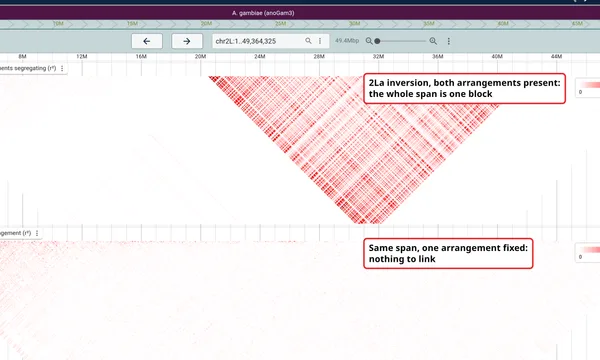
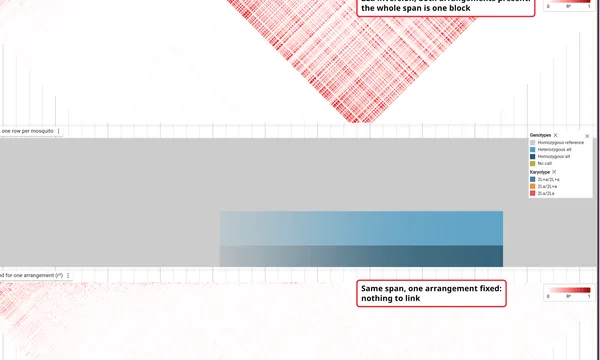
docs(ld_mosquitoes): fold the karyotype figure into the anopheles_2la screenshot
Merges the separate anopheles_2la_karyotype panel into the anopheles_2la
figure and regenerates the tutorial's screenshots and gallery links to match.

Claude-Session: https://claude.ai/code/session_01F45BYCnGRpaTboKELDPTan

diff --git a/website/src/lib/galleryLinks.generated.ts b/website/src/lib/galleryLinks.generated.ts
@@ -137,8 +137,7 @@ export const specSessionUrls: Record<string, string> = {
   "methylation/chromatin_accessibility_6ma": "?config=test_data/config_demo.json&session=spec-%7B%22sessionTracks%22%3A%5B%7B%22type%22%3A%22FeatureTrack%22%2C%22trackId%22%3A%22gencode_promoter_hg38_ucsc%22%2C%22name%22%3A%22GENCODE%20v48%20promoter%20windows%20(UCSC)%22%2C%22assemblyNames%22%3A%5B%22hg38%22%5D%2C%22adapter%22%3A%7B%22type%22%3A%22Gff3TabixAdapter%22%2C%22gffGzLocation%22%3A%7B%22uri%22%3A%22https%3A%2F%2Fjbrowse.org%2Fucsc%2Fhg38%2Fgencode.v48.promoter_windows.sorted.gff3.gz%22%2C%22locationType%22%3A%22UriLocation%22%7D%2C%22index%22%3A%7B%22location%22%3A%7B%22uri%22%3A%22https%3A%2F%2Fjbrowse.org%2Fucsc%2Fhg38%2Fgencode.v48.promoter_windows.sorted.gff3.gz.csi%22%2C%22locationType%22%3A%22UriLocation%22%7D%2C%22indexType%22%3A%22CSI%22%7D%7D%7D%5D%2C%22views%22%3A%5B%7B%22type%22%3A%22LinearGenomeView%22%2C%22assembly%22%3A%22hg38%22%2C%22loc%22%3A%22chr12%3A6%2C528%2C000-6%2C543%2C000%22%2C%22tracks%22%3A%5B%7B%22trackId%22%3A%22ncbi_refseq_109_hg38_latest%22%2C%22type%22%3A%22LinearBasicDisplay%22%2C%22geneGlyphMode%22%3A%22longestCoding%22%7D%2C%22gencode_promoter_hg38_ucsc%22%2C%7B%22trackId%22%3A%22PAY22766-nanopore%22%2C%22type%22%3A%22LinearAlignmentsDisplay%22%2C%22colorBy%22%3A%7B%22type%22%3A%22modifications%22%2C%22modifications%22%3A%7B%22shownModifications%22%3A%5B%22a%22%5D%7D%7D%2C%22heightMode%22%3A%22fixed%22%2C%22featureHeight%22%3A3%2C%22featureSpacing%22%3A0%2C%22showLegend%22%3Atrue%7D%2C%7B%22trackId%22%3A%22PBA15131-nanopore%22%2C%22type%22%3A%22LinearAlignmentsDisplay%22%2C%22colorBy%22%3A%7B%22type%22%3A%22modifications%22%2C%22modifications%22%3A%7B%22shownModifications%22%3A%5B%22a%22%5D%7D%7D%2C%22heightMode%22%3A%22fixed%22%2C%22featureHeight%22%3A3%2C%22featureSpacing%22%3A0%7D%5D%7D%5D%7D&sessionName=Screenshot",
   "methylation/hg002_snrpn_combined": "?config=test_data/config_demo.json&session=spec-%7B%22views%22%3A%5B%7B%22type%22%3A%22LinearGenomeView%22%2C%22assembly%22%3A%22hg38%22%2C%22loc%22%3A%22chr15%3A24%2C948%2C000-24%2C962%2C000%22%2C%22tracks%22%3A%5B%7B%22trackId%22%3A%22cpgisland_ucsc_hg38%22%2C%22type%22%3A%22LinearBasicDisplay%22%2C%22height%22%3A40%7D%2C%7B%22trackId%22%3A%22ncbi_refseq_109_hg38_latest%22%2C%22type%22%3A%22LinearBasicDisplay%22%2C%22geneGlyphMode%22%3A%22longestCoding%22%2C%22displayMode%22%3A%22compact%22%2C%22height%22%3A90%7D%2C%7B%22trackId%22%3A%22HG002_snrpn_modkit_hp1%22%2C%22type%22%3A%22MultiLinearWiggleDisplay%22%2C%22defaultRendering%22%3A%22multirowxy%22%2C%22minScore%22%3A0%2C%22maxScore%22%3A100%2C%22height%22%3A90%7D%2C%7B%22trackId%22%3A%22HG002_snrpn_modkit_hp2%22%2C%22type%22%3A%22MultiLinearWiggleDisplay%22%2C%22defaultRendering%22%3A%22multirowxy%22%2C%22minScore%22%3A0%2C%22maxScore%22%3A100%2C%22height%22%3A90%7D%2C%7B%22trackId%22%3A%22HG002_snrpn_5mC_reads%22%2C%22type%22%3A%22LinearAlignmentsDisplay%22%2C%22height%22%3A460%2C%22forceLoad%22%3Atrue%2C%22groupBy%22%3A%7B%22type%22%3A%22tag%22%2C%22tag%22%3A%22HP%22%7D%2C%22colorBy%22%3A%7B%22type%22%3A%22modifications%22%2C%22modifications%22%3A%7B%22fillUnmarked%22%3Atrue%7D%7D%7D%5D%7D%5D%7D&sessionName=Screenshot",
   "ld/lct_pooled_vs_panel": "?config=https%3A%2F%2Fjbrowse.org%2Fucsc%2Fhg19%2Fconfig.json&session=spec-%7B%22sessionTracks%22%3A%5B%7B%22type%22%3A%22VariantTrack%22%2C%22trackId%22%3A%22kgp_lct_pooled%22%2C%22name%22%3A%22All%20panels%20pooled%20(r%C2%B2)%22%2C%22assemblyNames%22%3A%5B%22hg19%22%5D%2C%22adapter%22%3A%7B%22type%22%3A%22VcfTabixAdapter%22%2C%22uri%22%3A%22https%3A%2F%2Fjbrowse.org%2Fdemos%2Fpopgen%2Flct_1kg_chr2_pooled_wide.vcf.gz%22%2C%22fetchSizeLimit%22%3A500000000%7D%2C%22displays%22%3A%5B%7B%22type%22%3A%22LDDisplay%22%2C%22showLDTriangle%22%3Atrue%2C%22showLegend%22%3Atrue%2C%22showRecombination%22%3Atrue%2C%22minorAlleleFrequencyFilter%22%3A0.35%2C%22height%22%3A330%2C%22useGenomicPositions%22%3Atrue%7D%5D%7D%2C%7B%22type%22%3A%22VariantTrack%22%2C%22trackId%22%3A%22kgp_lct_panel%22%2C%22name%22%3A%22One%20population%20panel%20(r%C2%B2)%22%2C%22assemblyNames%22%3A%5B%22hg19%22%5D%2C%22adapter%22%3A%7B%22type%22%3A%22VcfTabixAdapter%22%2C%22uri%22%3A%22https%3A%2F%2Fjbrowse.org%2Fdemos%2Fpopgen%2Flct_1kg_chr2_eur_wide.vcf.gz%22%2C%22fetchSizeLimit%22%3A500000000%7D%2C%22displays%22%3A%5B%7B%22type%22%3A%22LDDisplay%22%2C%22showLDTriangle%22%3Atrue%2C%22showLegend%22%3Atrue%2C%22showRecombination%22%3Atrue%2C%22minorAlleleFrequencyFilter%22%3A0.35%2C%22height%22%3A330%2C%22useGenomicPositions%22%3Atrue%7D%5D%7D%5D%2C%22views%22%3A%5B%7B%22type%22%3A%22LinearGenomeView%22%2C%22assembly%22%3A%22hg19%22%2C%22loc%22%3A%22chr2%3A134%2C700%2C000-137%2C800%2C000%22%2C%22highlight%22%3A%5B%7B%22refName%22%3A%22chr2%22%2C%22start%22%3A136545410%2C%22end%22%3A136634000%2C%22assemblyName%22%3A%22hg19%22%7D%5D%2C%22tracks%22%3A%5B%7B%22trackId%22%3A%22hg19-ncbiRefSeqCurated%22%2C%22type%22%3A%22LinearBasicDisplay%22%2C%22height%22%3A60%2C%22showOnlyGenes%22%3Atrue%7D%2C%7B%22trackId%22%3A%22kgp_lct_pooled%22%2C%22type%22%3A%22LDDisplay%22%7D%2C%7B%22trackId%22%3A%22kgp_lct_panel%22%2C%22type%22%3A%22LDDisplay%22%7D%5D%7D%5D%7D&sessionName=Screenshot",
-  "ld/anopheles_2la": "?config=https%3A%2F%2Fjbrowse.org%2Fucsc%2FanoGam3%2Fconfig.json&session=spec-%7B%22sessionTracks%22%3A%5B%7B%22type%22%3A%22LDTrack%22%2C%22trackId%22%3A%22ag1000g_2l_cmgam%22%2C%22name%22%3A%22Cameroon%2C%20both%20arrangements%20segregating%20(r%C2%B2)%22%2C%22assemblyNames%22%3A%5B%22anoGam3%22%5D%2C%22adapter%22%3A%7B%22type%22%3A%22PlinkLDTabixAdapter%22%2C%22uri%22%3A%22https%3A%2F%2Fjbrowse.org%2Fdemos%2Fpopgen%2Fag1000g_2L_CMgam.ld.gz%22%7D%2C%22displays%22%3A%5B%7B%22type%22%3A%22LDTrackDisplay%22%2C%22ldMetric%22%3A%22r2%22%2C%22useGenomicPositions%22%3Atrue%2C%22showLegend%22%3Atrue%2C%22height%22%3A300%7D%5D%7D%2C%7B%22type%22%3A%22LDTrack%22%2C%22trackId%22%3A%22ag1000g_2l_gagam%22%2C%22name%22%3A%22Gabon%2C%20fixed%20for%20one%20arrangement%20(r%C2%B2)%22%2C%22assemblyNames%22%3A%5B%22anoGam3%22%5D%2C%22adapter%22%3A%7B%22type%22%3A%22PlinkLDTabixAdapter%22%2C%22uri%22%3A%22https%3A%2F%2Fjbrowse.org%2Fdemos%2Fpopgen%2Fag1000g_2L_GAgam.ld.gz%22%7D%2C%22displays%22%3A%5B%7B%22type%22%3A%22LDTrackDisplay%22%2C%22ldMetric%22%3A%22r2%22%2C%22useGenomicPositions%22%3Atrue%2C%22showLegend%22%3Atrue%2C%22height%22%3A300%7D%5D%7D%5D%2C%22views%22%3A%5B%7B%22type%22%3A%22LinearGenomeView%22%2C%22assembly%22%3A%22anoGam3%22%2C%22loc%22%3A%22chr2L%22%2C%22tracks%22%3A%5B%7B%22trackId%22%3A%22ag1000g_2l_cmgam%22%2C%22type%22%3A%22LDTrackDisplay%22%7D%2C%7B%22trackId%22%3A%22ag1000g_2l_gagam%22%2C%22type%22%3A%22LDTrackDisplay%22%7D%5D%7D%5D%7D&sessionName=Screenshot",
-  "ld/anopheles_2la_karyotype": "?config=https%3A%2F%2Fjbrowse.org%2Fucsc%2FanoGam3%2Fconfig.json&session=spec-%7B%22sessionTracks%22%3A%5B%7B%22type%22%3A%22VariantTrack%22%2C%22trackId%22%3A%22ag1000g_2la_karyotype_cmgam%22%2C%22name%22%3A%22Cameroon%2C%20one%20row%20per%20mosquito%22%2C%22assemblyNames%22%3A%5B%22anoGam3%22%5D%2C%22adapter%22%3A%7B%22type%22%3A%22VcfTabixAdapter%22%2C%22uri%22%3A%22https%3A%2F%2Fjbrowse.org%2Fdemos%2Fpopgen%2Fag1000g_2La_CMgam.vcf.gz%22%2C%22samplesTsvLocation%22%3A%7B%22uri%22%3A%22https%3A%2F%2Fjbrowse.org%2Fdemos%2Fpopgen%2Fag1000g_2La_CMgam_samples.tsv%22%7D%7D%2C%22displays%22%3A%5B%7B%22type%22%3A%22LinearMultiSampleVariantDisplay%22%2C%22groupBy%22%3A%22karyotype%22%2C%22colorBy%22%3A%22karyotype%22%2C%22referenceDrawingMode%22%3A%22draw%22%2C%22rowHeight%22%3A3%2C%22height%22%3A891%7D%5D%7D%2C%7B%22type%22%3A%22VariantTrack%22%2C%22trackId%22%3A%22ag1000g_2la_karyotype_gagam%22%2C%22name%22%3A%22Gabon%2C%20one%20row%20per%20mosquito%22%2C%22assemblyNames%22%3A%5B%22anoGam3%22%5D%2C%22adapter%22%3A%7B%22type%22%3A%22VcfTabixAdapter%22%2C%22uri%22%3A%22https%3A%2F%2Fjbrowse.org%2Fdemos%2Fpopgen%2Fag1000g_2La_GAgam.vcf.gz%22%2C%22samplesTsvLocation%22%3A%7B%22uri%22%3A%22https%3A%2F%2Fjbrowse.org%2Fdemos%2Fpopgen%2Fag1000g_2La_GAgam_samples.tsv%22%7D%7D%2C%22displays%22%3A%5B%7B%22type%22%3A%22LinearMultiSampleVariantDisplay%22%2C%22groupBy%22%3A%22karyotype%22%2C%22colorBy%22%3A%22karyotype%22%2C%22referenceDrawingMode%22%3A%22draw%22%2C%22rowHeight%22%3A3%2C%22height%22%3A207%7D%5D%7D%5D%2C%22views%22%3A%5B%7B%22type%22%3A%22LinearGenomeView%22%2C%22assembly%22%3A%22anoGam3%22%2C%22loc%22%3A%22chr2L%22%2C%22tracks%22%3A%5B%7B%22trackId%22%3A%22ag1000g_2la_karyotype_cmgam%22%2C%22type%22%3A%22LinearMultiSampleVariantDisplay%22%7D%2C%7B%22trackId%22%3A%22ag1000g_2la_karyotype_gagam%22%2C%22type%22%3A%22LinearMultiSampleVariantDisplay%22%7D%5D%7D%5D%7D&sessionName=Screenshot",
+  "ld/anopheles_2la": "?config=https%3A%2F%2Fjbrowse.org%2Fucsc%2FanoGam3%2Fconfig.json&session=spec-%7B%22sessionTracks%22%3A%5B%7B%22type%22%3A%22LDTrack%22%2C%22trackId%22%3A%22ag1000g_2l_cmgam%22%2C%22name%22%3A%22Cameroon%2C%20both%20arrangements%20segregating%20(r%C2%B2)%22%2C%22assemblyNames%22%3A%5B%22anoGam3%22%5D%2C%22adapter%22%3A%7B%22type%22%3A%22PlinkLDTabixAdapter%22%2C%22uri%22%3A%22https%3A%2F%2Fjbrowse.org%2Fdemos%2Fpopgen%2Fag1000g_2L_CMgam.ld.gz%22%7D%2C%22displays%22%3A%5B%7B%22type%22%3A%22LDTrackDisplay%22%2C%22ldMetric%22%3A%22r2%22%2C%22useGenomicPositions%22%3Atrue%2C%22showLegend%22%3Atrue%2C%22height%22%3A300%7D%5D%7D%2C%7B%22type%22%3A%22VariantTrack%22%2C%22trackId%22%3A%22ag1000g_2la_karyotype_cmgam%22%2C%22name%22%3A%22Cameroon%2C%20one%20row%20per%20mosquito%22%2C%22assemblyNames%22%3A%5B%22anoGam3%22%5D%2C%22adapter%22%3A%7B%22type%22%3A%22VcfTabixAdapter%22%2C%22uri%22%3A%22https%3A%2F%2Fjbrowse.org%2Fdemos%2Fpopgen%2Fag1000g_2La_CMgam.vcf.gz%22%2C%22samplesTsvLocation%22%3A%7B%22uri%22%3A%22https%3A%2F%2Fjbrowse.org%2Fdemos%2Fpopgen%2Fag1000g_2La_CMgam_samples.tsv%22%7D%7D%2C%22displays%22%3A%5B%7B%22type%22%3A%22LinearMultiSampleVariantDisplay%22%2C%22groupBy%22%3A%22karyotype%22%2C%22colorBy%22%3A%22karyotype%22%2C%22referenceDrawingMode%22%3A%22skip%22%2C%22height%22%3A297%7D%5D%7D%2C%7B%22type%22%3A%22LDTrack%22%2C%22trackId%22%3A%22ag1000g_2l_gagam%22%2C%22name%22%3A%22Gabon%2C%20fixed%20for%20one%20arrangement%20(r%C2%B2)%22%2C%22assemblyNames%22%3A%5B%22anoGam3%22%5D%2C%22adapter%22%3A%7B%22type%22%3A%22PlinkLDTabixAdapter%22%2C%22uri%22%3A%22https%3A%2F%2Fjbrowse.org%2Fdemos%2Fpopgen%2Fag1000g_2L_GAgam.ld.gz%22%7D%2C%22displays%22%3A%5B%7B%22type%22%3A%22LDTrackDisplay%22%2C%22ldMetric%22%3A%22r2%22%2C%22useGenomicPositions%22%3Atrue%2C%22showLegend%22%3Atrue%2C%22height%22%3A300%7D%5D%7D%2C%7B%22type%22%3A%22VariantTrack%22%2C%22trackId%22%3A%22ag1000g_2la_karyotype_gagam%22%2C%22name%22%3A%22Gabon%2C%20one%20row%20per%20mosquito%22%2C%22assemblyNames%22%3A%5B%22anoGam3%22%5D%2C%22adapter%22%3A%7B%22type%22%3A%22VcfTabixAdapter%22%2C%22uri%22%3A%22https%3A%2F%2Fjbrowse.org%2Fdemos%2Fpopgen%2Fag1000g_2La_GAgam.vcf.gz%22%2C%22samplesTsvLocation%22%3A%7B%22uri%22%3A%22https%3A%2F%2Fjbrowse.org%2Fdemos%2Fpopgen%2Fag1000g_2La_GAgam_samples.tsv%22%7D%7D%2C%22displays%22%3A%5B%7B%22type%22%3A%22LinearMultiSampleVariantDisplay%22%2C%22groupBy%22%3A%22karyotype%22%2C%22colorBy%22%3A%22karyotype%22%2C%22referenceDrawingMode%22%3A%22skip%22%2C%22height%22%3A150%7D%5D%7D%5D%2C%22views%22%3A%5B%7B%22type%22%3A%22LinearGenomeView%22%2C%22assembly%22%3A%22anoGam3%22%2C%22loc%22%3A%22chr2L%22%2C%22tracks%22%3A%5B%7B%22trackId%22%3A%22ag1000g_2l_cmgam%22%2C%22type%22%3A%22LDTrackDisplay%22%7D%2C%7B%22trackId%22%3A%22ag1000g_2la_karyotype_cmgam%22%2C%22type%22%3A%22LinearMultiSampleVariantDisplay%22%7D%2C%7B%22trackId%22%3A%22ag1000g_2l_gagam%22%2C%22type%22%3A%22LDTrackDisplay%22%7D%2C%7B%22trackId%22%3A%22ag1000g_2la_karyotype_gagam%22%2C%22type%22%3A%22LinearMultiSampleVariantDisplay%22%7D%5D%7D%5D%7D&sessionName=Screenshot",
   "ld/lct_lactase": "?config=https%3A%2F%2Fjbrowse.org%2Fucsc%2Fhg19%2Fconfig.json&session=spec-%7B%22sessionTracks%22%3A%5B%7B%22type%22%3A%22VariantTrack%22%2C%22trackId%22%3A%22kgp_lct_ld%22%2C%22name%22%3A%22LCT%20lactase-persistence%20LD%2C%201000G%20European%20panel%20(r%C2%B2)%22%2C%22assemblyNames%22%3A%5B%22hg19%22%5D%2C%22adapter%22%3A%7B%22type%22%3A%22VcfTabixAdapter%22%2C%22uri%22%3A%22https%3A%2F%2Fjbrowse.org%2Fdemos%2Fpopgen%2Flct_1kg_chr2_eur_wide.vcf.gz%22%2C%22fetchSizeLimit%22%3A500000000%7D%2C%22displays%22%3A%5B%7B%22type%22%3A%22LDDisplay%22%2C%22showLDTriangle%22%3Atrue%2C%22showLegend%22%3Atrue%2C%22showRecombination%22%3Atrue%2C%22minorAlleleFrequencyFilter%22%3A0.35%2C%22useGenomicPositions%22%3Atrue%2C%22height%22%3A510%7D%5D%7D%5D%2C%22views%22%3A%5B%7B%22type%22%3A%22LinearGenomeView%22%2C%22assembly%22%3A%22hg19%22%2C%22loc%22%3A%22chr2%3A134%2C700%2C000-137%2C800%2C000%22%2C%22highlight%22%3A%5B%7B%22refName%22%3A%22chr2%22%2C%22start%22%3A136545410%2C%22end%22%3A136634000%2C%22assemblyName%22%3A%22hg19%22%7D%5D%2C%22tracks%22%3A%5B%7B%22trackId%22%3A%22hg19-ncbiRefSeqCurated%22%2C%22type%22%3A%22LinearBasicDisplay%22%2C%22height%22%3A60%2C%22showOnlyGenes%22%3Atrue%7D%2C%7B%22trackId%22%3A%22hg19-clinvarMain%22%2C%22type%22%3A%22LinearBasicDisplay%22%2C%22height%22%3A70%2C%22jexlFiltersSetting%22%3A%5B%22jexl%3Aget(feature%2C'phenotypeList')%3D%3D'LACTASE%20PERSISTENCE'%22%5D%7D%2C%7B%22trackId%22%3A%22kgp_lct_ld%22%2C%22type%22%3A%22LDDisplay%22%7D%5D%7D%5D%7D&sessionName=Screenshot",
   "popgen/fst_in2lt_2L": "?config=https%3A%2F%2Fjbrowse.org%2Fucsc%2Fdm6%2Fconfig.json&session=spec-%7B%22sessionTracks%22%3A%5B%7B%22type%22%3A%22FeatureTrack%22%2C%22trackId%22%3A%22in2lt_inversion%22%2C%22name%22%3A%22In(2L)t%20inversion%22%2C%22assemblyNames%22%3A%5B%22dm6%22%5D%2C%22adapter%22%3A%7B%22type%22%3A%22FromConfigAdapter%22%2C%22adapterId%22%3A%22in2lt%22%2C%22features%22%3A%5B%7B%22uniqueId%22%3A%22in2lt%22%2C%22refName%22%3A%22chr2L%22%2C%22start%22%3A2225744%2C%22end%22%3A13154180%2C%22name%22%3A%22In(2L)t%22%2C%22type%22%3A%22inversion%22%7D%5D%7D%7D%2C%7B%22type%22%3A%22QuantitativeTrack%22%2C%22trackId%22%3A%22fst_in2lt%22%2C%22name%22%3A%22Fst%20(In(2L)t%20vs%20standard)%22%2C%22assemblyNames%22%3A%5B%22dm6%22%5D%2C%22adapter%22%3A%7B%22type%22%3A%22BigWigAdapter%22%2C%22uri%22%3A%22https%3A%2F%2Fjbrowse.org%2Fdemos%2Fpopgen%2Ffst_In2Lt.bw%22%7D%7D%5D%2C%22views%22%3A%5B%7B%22type%22%3A%22LinearGenomeView%22%2C%22assembly%22%3A%22dm6%22%2C%22displayedRegionNames%22%3A%5B%22chr2L%22%2C%22chr2R%22%2C%22chr3L%22%2C%22chr3R%22%2C%22chr4%22%2C%22chrX%22%5D%2C%22tracks%22%3A%5B%7B%22trackId%22%3A%22in2lt_inversion%22%2C%22type%22%3A%22LinearBasicDisplay%22%2C%22height%22%3A40%7D%2C%7B%22trackId%22%3A%22fst_in2lt%22%2C%22type%22%3A%22LinearWiggleDisplay%22%2C%22height%22%3A340%7D%5D%7D%5D%7D&sessionName=Screenshot",
   "popgen/tajimad_cyp6g1": "?config=https%3A%2F%2Fjbrowse.org%2Fucsc%2Fdm6%2Fconfig.json&session=spec-%7B%22sessionTracks%22%3A%5B%7B%22type%22%3A%22QuantitativeTrack%22%2C%22trackId%22%3A%22tajd_all%22%2C%22name%22%3A%22Tajima's%20D%20(whole%20panel)%22%2C%22assemblyNames%22%3A%5B%22dm6%22%5D%2C%22adapter%22%3A%7B%22type%22%3A%22BigWigAdapter%22%2C%22uri%22%3A%22https%3A%2F%2Fjbrowse.org%2Fdemos%2Fpopgen%2Ftajimad_all.bw%22%7D%7D%2C%7B%22type%22%3A%22QuantitativeTrack%22%2C%22trackId%22%3A%22pi_all%22%2C%22name%22%3A%22%CF%80%20(whole%20panel)%22%2C%22assemblyNames%22%3A%5B%22dm6%22%5D%2C%22adapter%22%3A%7B%22type%22%3A%22BigWigAdapter%22%2C%22uri%22%3A%22https%3A%2F%2Fjbrowse.org%2Fdemos%2Fpopgen%2Fpi_all.bw%22%7D%7D%5D%2C%22views%22%3A%5B%7B%22type%22%3A%22LinearGenomeView%22%2C%22assembly%22%3A%22dm6%22%2C%22loc%22%3A%22chr2R%3A12%2C000%2C000-12%2C400%2C000%22%2C%22highlight%22%3A%5B%7B%22refName%22%3A%22chr2R%22%2C%22start%22%3A12130000%2C%22end%22%3A12200000%2C%22assemblyName%22%3A%22dm6%22%2C%22label%22%3A%22Cyp6g1%22%7D%5D%2C%22tracks%22%3A%5B%7B%22trackId%22%3A%22tajd_all%22%2C%22type%22%3A%22LinearWiggleDisplay%22%2C%22height%22%3A200%7D%2C%7B%22trackId%22%3A%22pi_all%22%2C%22type%22%3A%22LinearWiggleDisplay%22%2C%22height%22%3A180%7D%2C%7B%22trackId%22%3A%22dm6-ncbiRefSeqCurated%22%2C%22type%22%3A%22LinearBasicDisplay%22%2C%22height%22%3A150%2C%22showOnlyGenes%22%3Atrue%2C%22featureHighlights%22%3A%5B%7B%22refName%22%3A%22chr2R%22%2C%22name%22%3A%22Cyp6g1%22%7D%2C%7B%22refName%22%3A%22chr2R%22%2C%22name%22%3A%22Cyp6g2%22%7D%5D%7D%5D%7D%5D%7D&sessionName=Screenshot",

diff --git a/website/scripts/specs/ld.ts b/website/scripts/specs/ld.ts
@@ -205,9 +205,9 @@ const AG_POPGEN = 'https://jbrowse.org/demos/popgen'
 
 // One track per population, not one track holding both. The display draws one
 // row per sample in the VCF and has no sample filter, so the file is the row set
-// — and at a 3px row the sidebar cannot render a text label, which leaves the
-// track header as the only place a population name can go. It also puts this
-// figure in the same two-lane structure as the heatmaps above.
+// — and at a 1px row the sidebar cannot render a text label, which leaves the
+// track header as the only place a population name can go. It also lets each
+// karyotype lane sit directly under its own LD panel in the combined figure.
 const agKaryotypeTrack = (pop: string, name: string, height: number) => ({
   type: 'VariantTrack',
   trackId: `ag1000g_2la_karyotype_${pop.toLowerCase()}`,
@@ -230,25 +230,28 @@ const agKaryotypeTrack = (pop: string, name: string, height: number) => ({
       // contiguous blocks in dosage order.
       groupBy: 'karyotype',
       colorBy: 'karyotype',
-      // 'draw', not the default 'skip'. Skip mode fills the entire track
-      // background with REFERENCE_COLOR and paints only ALT cells, so a
-      // standard-arrangement mosquito is indistinguishable from empty canvas —
-      // which is exactly the distinction this figure exists to make for the
-      // near-fixed population, whose track would otherwise read as failed to
-      // load. Drawing reference puts a grey cell at the call's span on those
-      // rows, so every mosquito shows a block over the inversion and its shade is
-      // its karyotype.
-      referenceDrawingMode: 'draw',
+      // 'skip', the default: the display fills the whole lane with
+      // REFERENCE_COLOR in CSS and paints only ALT cells on top, so the lane is
+      // a solid grey field with the carriers' blocks on it (review: "it should
+      // use 'drawreferencealleles' as solid grey background"). 'draw' instead
+      // paints a grey cell per row at the call's span, and at these row heights
+      // the per-row gaps broke that field into a striped rectangle that read as
+      // a texture rather than as background.
+      referenceDrawingMode: 'skip',
       // No featureColor. The default alt shade is keyed to allele dosage
       // (`getAltColorForDosage`), so a heterozygote paints lighter than a
       // homozygote and the three classes read apart; an override flattens het and
       // hom-alt to one flat color, which is what the first cut of this figure did
       // and it threw the distinction away.
       //
-      // 3px rows, not 1px: a 1px row is shorter than the inversion glyph's taper,
-      // so the left end of every block antialiases into a gradient instead of
-      // reading as a shape.
-      rowHeight: 3,
+      // No rowHeight here. It is a display *model* prop, not a config slot, so a
+      // track config carries it nowhere — the previous 891/207 lanes read as
+      // "297 x 3px" only because `height / nrow` happens to land on the same
+      // number. The lane height IS the row height: rows auto-fit
+      // `availableHeight / nrow`, so this is the one knob, and at 297px the
+      // Cameroon panel's 297 mosquitoes get a pixel each. The class boundaries
+      // survive that because rows are grouped — a 1px row is not readable on its
+      // own, but a contiguous run of one karyotype is a band tens of px deep.
       height,
     },
   ],
@@ -357,10 +360,9 @@ export const ldSpecs: ScreenshotSpec[] = [
         },
       ],
     })}&sessionName=Screenshot`,
-    // same real signal as the Anopheles figure: both LD panels finished, not a
-    // duration guess
-    readySelector:
-      'body:has([data-testid="ld-display-done"][data-display-phase="ready"]):not(:has([data-testid="ld-display"])):not(:has([data-display-phase="loading"]))',
+    // same real signal as the Anopheles figure: an LD panel exists to settle on,
+    // and the generator's settle takes it from there
+    readySelector: '[data-testid="ld-display-done"]',
     // 21 MB of genotypes across the two lanes, the pooled one on 2504 samples
     readyTimeout: 600000,
     // the gene lane, then two LD tracks (330 triangle + 50 recombination zone
@@ -370,6 +372,13 @@ export const ldSpecs: ScreenshotSpec[] = [
   },
   {
     mode: 'url',
+    // ONE FIGURE, four lanes: each population's LD panel with its own karyotype
+    // lane under it (review: "this should be combined with the linkage tracks").
+    // The karyotype lanes were a second figure until this round, which made the
+    // reader carry the population names between two pictures to pair a block
+    // with the mosquitoes that produce it. Stacked, the pairing is vertical: the
+    // Cameroon block sits directly above the carriers it comes from, and the
+    // empty Gabon panel above a lane with nothing to carry.
     name: 'ld/anopheles_2la',
     url: `${ANOGAM3_HUB}&session=${encodeSessionSpec({
       sessionTracks: [
@@ -378,11 +387,20 @@ export const ldSpecs: ScreenshotSpec[] = [
           'Cameroon, both arrangements segregating (r²)',
           'ag1000g_2L_CMgam.ld.gz',
         ),
+        // 297 and 69 mosquitoes (the script prints both). The Cameroon lane
+        // takes its row count as its height, so a row is a pixel. The Gabon lane
+        // cannot: its floating legend is clipped to the display's own bounds and
+        // 69px cut that legend in half, so it takes the legend's height and its
+        // 69 rows auto-fit to ~2px each. The cost is that lane height is no
+        // longer proportional to panel size across the two, which is why the
+        // caption names both counts.
+        agKaryotypeTrack('CMgam', 'Cameroon, one row per mosquito', 297),
         agLdTrack(
           'ag1000g_2l_gagam',
           'Gabon, fixed for one arrangement (r²)',
           'ag1000g_2L_GAgam.ld.gz',
         ),
+        agKaryotypeTrack('GAgam', 'Gabon, one row per mosquito', 150),
       ],
       views: [
         {
@@ -397,24 +415,34 @@ export const ldSpecs: ScreenshotSpec[] = [
           // features are admitted, not whether they can be resolved.
           tracks: [
             { trackId: 'ag1000g_2l_cmgam', type: 'LDTrackDisplay' },
+            {
+              trackId: 'ag1000g_2la_karyotype_cmgam',
+              type: 'LinearMultiSampleVariantDisplay',
+            },
             { trackId: 'ag1000g_2l_gagam', type: 'LDTrackDisplay' },
+            {
+              trackId: 'ag1000g_2la_karyotype_gagam',
+              type: 'LinearMultiSampleVariantDisplay',
+            },
           ],
         },
       ],
     })}&sessionName=Screenshot`,
-    // Wait on the model's own state, not a duration. DisplayChrome publishes
-    // `data-display-phase` for exactly this; note the sibling `-done` testid is
-    // canvasDrawn (FIRST PAINT), which flips on an empty canvas while the fetch
-    // is still in flight, so it would happily screenshot a blank triangle.
-    // Both LD panels must reach `ready`.
-    // An LD panel is `ld-display` until first paint and `ld-display-done`
-    // after, so "no bare ld-display left" means both panels painted, and "no
-    // phase=loading left" means both finished fetching.
-    readySelector:
-      'body:has([data-testid="ld-display-done"][data-display-phase="ready"]):not(:has([data-testid="ld-display"])):not(:has([data-display-phase="loading"]))',
+    // One testid, not a selector enumerating the four lanes: the generator's
+    // own settle already waits for every DisplayChrome-wrapped display to leave
+    // `loading` and then to paint (see settlePass in generate-screenshots.ts),
+    // which is what "all four are done" means. This only has to hold until the
+    // first LD panel exists to settle on.
+    readySelector: '[data-testid="ld-display-done"]',
+    // 180s. The data is small; what takes the time is the anoGam3 hub's
+    // chrom.sizes off hgdownload.soe.ucsc.edu, which times out and refetches
+    // often enough to blow through 120s on a bad day.
     readyTimeout: 180000,
-    // two LD tracks(300 each) + 2 headers + ruler/overview
-    viewportHeight: 770,
+    // two LD tracks (300 each) + 297 + 69 of karyotype rows + 4 headers +
+    // ruler/overview. Undersize this and the rows past the fold are cropped away
+    // silently: first paint still fires, so the capture succeeds with the
+    // informative rows missing.
+    viewportHeight: 1382,
     settleMs: 8000,
     // One callout per lane, saying what each lane shows rather than only naming
     // the span (review: "a red text annotation on both cameroon and gabon
@@ -450,51 +478,6 @@ export const ldSpecs: ScreenshotSpec[] = [
         maxWidth: 430,
       },
     ],
-  },
-  {
-    mode: 'url',
-    name: 'ld/anopheles_2la_karyotype',
-    url: `${ANOGAM3_HUB}&session=${encodeSessionSpec({
-      sessionTracks: [
-        // Heights are the row counts times rowHeight, so each lane is exactly as
-        // tall as its panel is large and neither scrolls. 297 and 69 mosquitoes
-        // (the script prints both), so the Cameroon lane is the tall one.
-        agKaryotypeTrack('CMgam', 'Cameroon, one row per mosquito', 891),
-        agKaryotypeTrack('GAgam', 'Gabon, one row per mosquito', 207),
-      ],
-      views: [
-        {
-          type: 'LinearGenomeView',
-          assembly: 'anoGam3',
-          // the whole arm, same frame as the LD figure above, so the call is
-          // bounded by standard-arrangement sequence on both sides rather than
-          // cropped to its own extent
-          loc: 'chr2L',
-          tracks: [
-            {
-              trackId: 'ag1000g_2la_karyotype_cmgam',
-              type: 'LinearMultiSampleVariantDisplay',
-            },
-            {
-              trackId: 'ag1000g_2la_karyotype_gagam',
-              type: 'LinearMultiSampleVariantDisplay',
-            },
-          ],
-        },
-      ],
-    })}&sessionName=Screenshot`,
-    readySelector: '[data-testid="variant-display-done"]',
-    // 180s to match the sibling LD figure. The data here is three tiny files;
-    // what actually takes the time is the anoGam3 hub's chrom.sizes off
-    // hgdownload.soe.ucsc.edu, which times out and refetches often enough to blow
-    // through 120s on a bad day.
-    readyTimeout: 180000,
-    // 891 + 207 of rows + 2 track headers + each lane's legend + ruler/overview
-    // + app bar. Undersize this and the rows past the fold are cropped away
-    // silently: first paint still fires, so the capture succeeds with the
-    // informative rows missing. 1290 clipped the last 45 px of the Gabon lane.
-    viewportHeight: 1345,
-    settleMs: 12000,
   },
   {
     mode: 'url',

diff --git a/website/scripts/generate-screenshots.ts b/website/scripts/generate-screenshots.ts
@@ -241,14 +241,28 @@ function readyTimeoutOf(spec: BrowserScreenshotSpec) {
   return spec.readyTimeout ?? DEFAULT_READY_TIMEOUT_MS
 }
 
-// One round of the post-first-paint settle: nothing is drawing, every canvas
-// display has painted, and no display is still in its `loading` phase. Each keys
+// One round of the post-first-paint settle: nothing is drawing, no display is
+// still in its `loading` phase, and every canvas display has painted. Each keys
 // off a different signal, and none is sufficient alone — see the waits' own docs
 // in @jbrowse/browser-test-utils.
+//
+// FETCH FIRST, THEN PAINT. `-done` is canvasDrawn (first paint), which a display
+// can reach on an empty canvas while its fetch is still in flight, so waiting on
+// it *before* the phase gate proves nothing about content; waiting after it
+// means every display has both finished fetching and drawn what it fetched.
+// That ordering is what lets a spec's `readySelector` stay a single
+// `[data-testid="…-done"]` instead of a hand-written `body:has(…):not(:has(…))`
+// puzzle enumerating each panel — the generic pair below already says "all of
+// them, fetched and painted" for every display DisplayChrome wraps.
+//
+// The paint wait keeps its short `settleMs` bound, which is now the right size
+// for it: it starts once nothing is fetching, so it is waiting out a repaint,
+// not a download. Ordered the other way it expired mid-fetch on every slow
+// figure and — being best-effort — was swallowed silently.
 async function settlePass(page: Page, spec: BrowserScreenshotSpec) {
   await waitForQuiescent(page, { timeout: readyTimeoutOf(spec) })
-  await waitForDisplaysDone(page, spec.settleMs ?? DEFAULT_SETTLE_MS)
   await waitForDisplayPhases(page, readyTimeoutOf(spec))
+  await waitForDisplaysDone(page, spec.settleMs ?? DEFAULT_SETTLE_MS)
 }
 
 // Wait out a spec's readiness signals before capture: its readyText/readySelector

diff --git a/website/docs/tutorials/ld_mosquitoes.md b/website/docs/tutorials/ld_mosquitoes.md
@@ -30,12 +30,13 @@ in _Anopheles gambiae_ spans roughly 22 Mb of chromosome arm 2L, far past what
 can be computed live from a VCF, so this LD is precomputed with PLINK and read
 through [`PlinkLDTabixAdapter`](/docs/config/plinkldtabixadapter).
 
-<Figure src="/img/ld/anopheles_2la.png" caption="Ag1000G chromosome arm 2L, the same window and settings in both panels. r² fills the published 2La extent in the Cameroon panel and there is nothing there in the Gabon panel. Both panels carry a separate block at the low-coordinate end of the arm."/>
+<Figure src="/img/ld/anopheles_2la.png" caption="Ag1000G chromosome arm 2L, the same window and settings throughout. Each population's r² heatmap sits above its own karyotype lane: 297 Cameroon mosquitoes, 69 from Gabon, one row each. r² fills the published 2La extent in the Cameroon panel, where the lane below it shows both arrangements segregating, and there is nothing in the Gabon panel, whose lane is almost all standard arrangement. Both panels carry a separate block at the low-coordinate end of the arm."/>
 
-The band comes from the published breakpoint coordinates, so the block's edges
-can be checked against them by eye.
+The heatmap's block comes out at the published breakpoint coordinates, so its
+edges can be checked against them by eye — and against the karyotype lane below
+it, whose cells are drawn at those same coordinates from a different file.
 
-The lower panel is a control, not a second example: that population is
+The Gabon panel is a control, not a second example: that population is
 effectively fixed for one arrangement, so it has nothing to correlate there. It
 still carries a block at the low-coordinate end of the arm, near the
 voltage-gated sodium channel, which says the display works and the banded region
@@ -54,9 +55,9 @@ because the call is a single feature no matter how wide it is.
 Use the regular multi-sample display rather than its matrix mode. Matrix mode
 spaces one evenly sized column per variant, which discards the call's genomic
 extent; the regular display draws each genotype at the call's true span, so the
-carrier rows begin and end at the breakpoints.
-
-<Figure src="/img/ld/anopheles_2la_karyotype.png" caption="Whole chromosome arm 2L, the same two populations as the heatmaps above, one row per mosquito and one lane per population. Cells are shaded by allele dosage, so each lane sorts into standard, heterozygous and homozygous-inverted blocks between the breakpoints. Inversions draw as a tapered glyph, so every row fades toward its left breakpoint."/>
+carrier rows begin and end at the breakpoints. That is what the karyotype lanes
+in the figure above are: cells shaded by allele dosage, each lane sorted into
+standard, heterozygous and homozygous-inverted blocks.
 
 Load each population as a `VariantTrack` whose adapter carries the samples TSV,
 with a `LinearMultiSampleVariantDisplay` that orders (`groupBy`) and colors
@@ -80,8 +81,7 @@ with a `LinearMultiSampleVariantDisplay` that orders (`groupBy`) and colors
       "type": "LinearMultiSampleVariantDisplay",
       "groupBy": "karyotype",
       "colorBy": "karyotype",
-      "referenceDrawingMode": "draw",
-      "rowHeight": 3
+      "referenceDrawingMode": "skip"
     }
   ]
 }
@@ -92,17 +92,20 @@ Two settings there are doing real work.
 keeps the karyotype classes contiguous; without it the rows keep the VCF's
 column order and the split only reads as blocks by luck. And
 [`referenceDrawingMode`](/docs/config/linearmultisamplevariantdisplay/#slot-referencedrawingmode)
-has to be `draw` here. Its default, `skip`, fills the whole track background
-with the reference color and paints only alt cells, which is right when carriers
-are the story but wrong when non-carriers are: the Gabon lane would render as an
-empty track, indistinguishable from one that failed to load. Drawing reference
-gives every mosquito a cell at the call's span, so the lane says "these
-mosquitoes are standard arrangement" rather than saying nothing.
+is left on its default, `skip`, which colors the whole lane with the reference
+color and paints only alt cells on top. The lane is then a solid grey field with
+the carriers' blocks on it, and a standard-arrangement mosquito is grey rather
+than blank. The alternative, `draw`, paints a grey cell per row at the call's
+span instead — the same information, but as a rectangle striped by the gaps
+between rows, which reads as a texture rather than as background.
 
-One track per population, rather than one track holding both, because the
-display draws a row for every sample in the file and has no sample filter. The
-file is the row set, and at a three-pixel row the sidebar has no space to render
-a text label, so the track header is the only place a population name can go.
+There is no `rowHeight` here, because it is a display model property rather than
+a config slot: rows divide the lane's height between them, so the lane height is
+the row height. 297 mosquitoes in a 297-pixel lane get a pixel each. That is
+also why one track per population rather than one track holding both — the
+display draws a row for every sample in the file and has no sample filter, so
+the file is the row set, and at a one-pixel row the sidebar has no space for a
+text label, leaving the track header as the only place a population name can go.
 
 ### What is inferred here, and what is not
 
